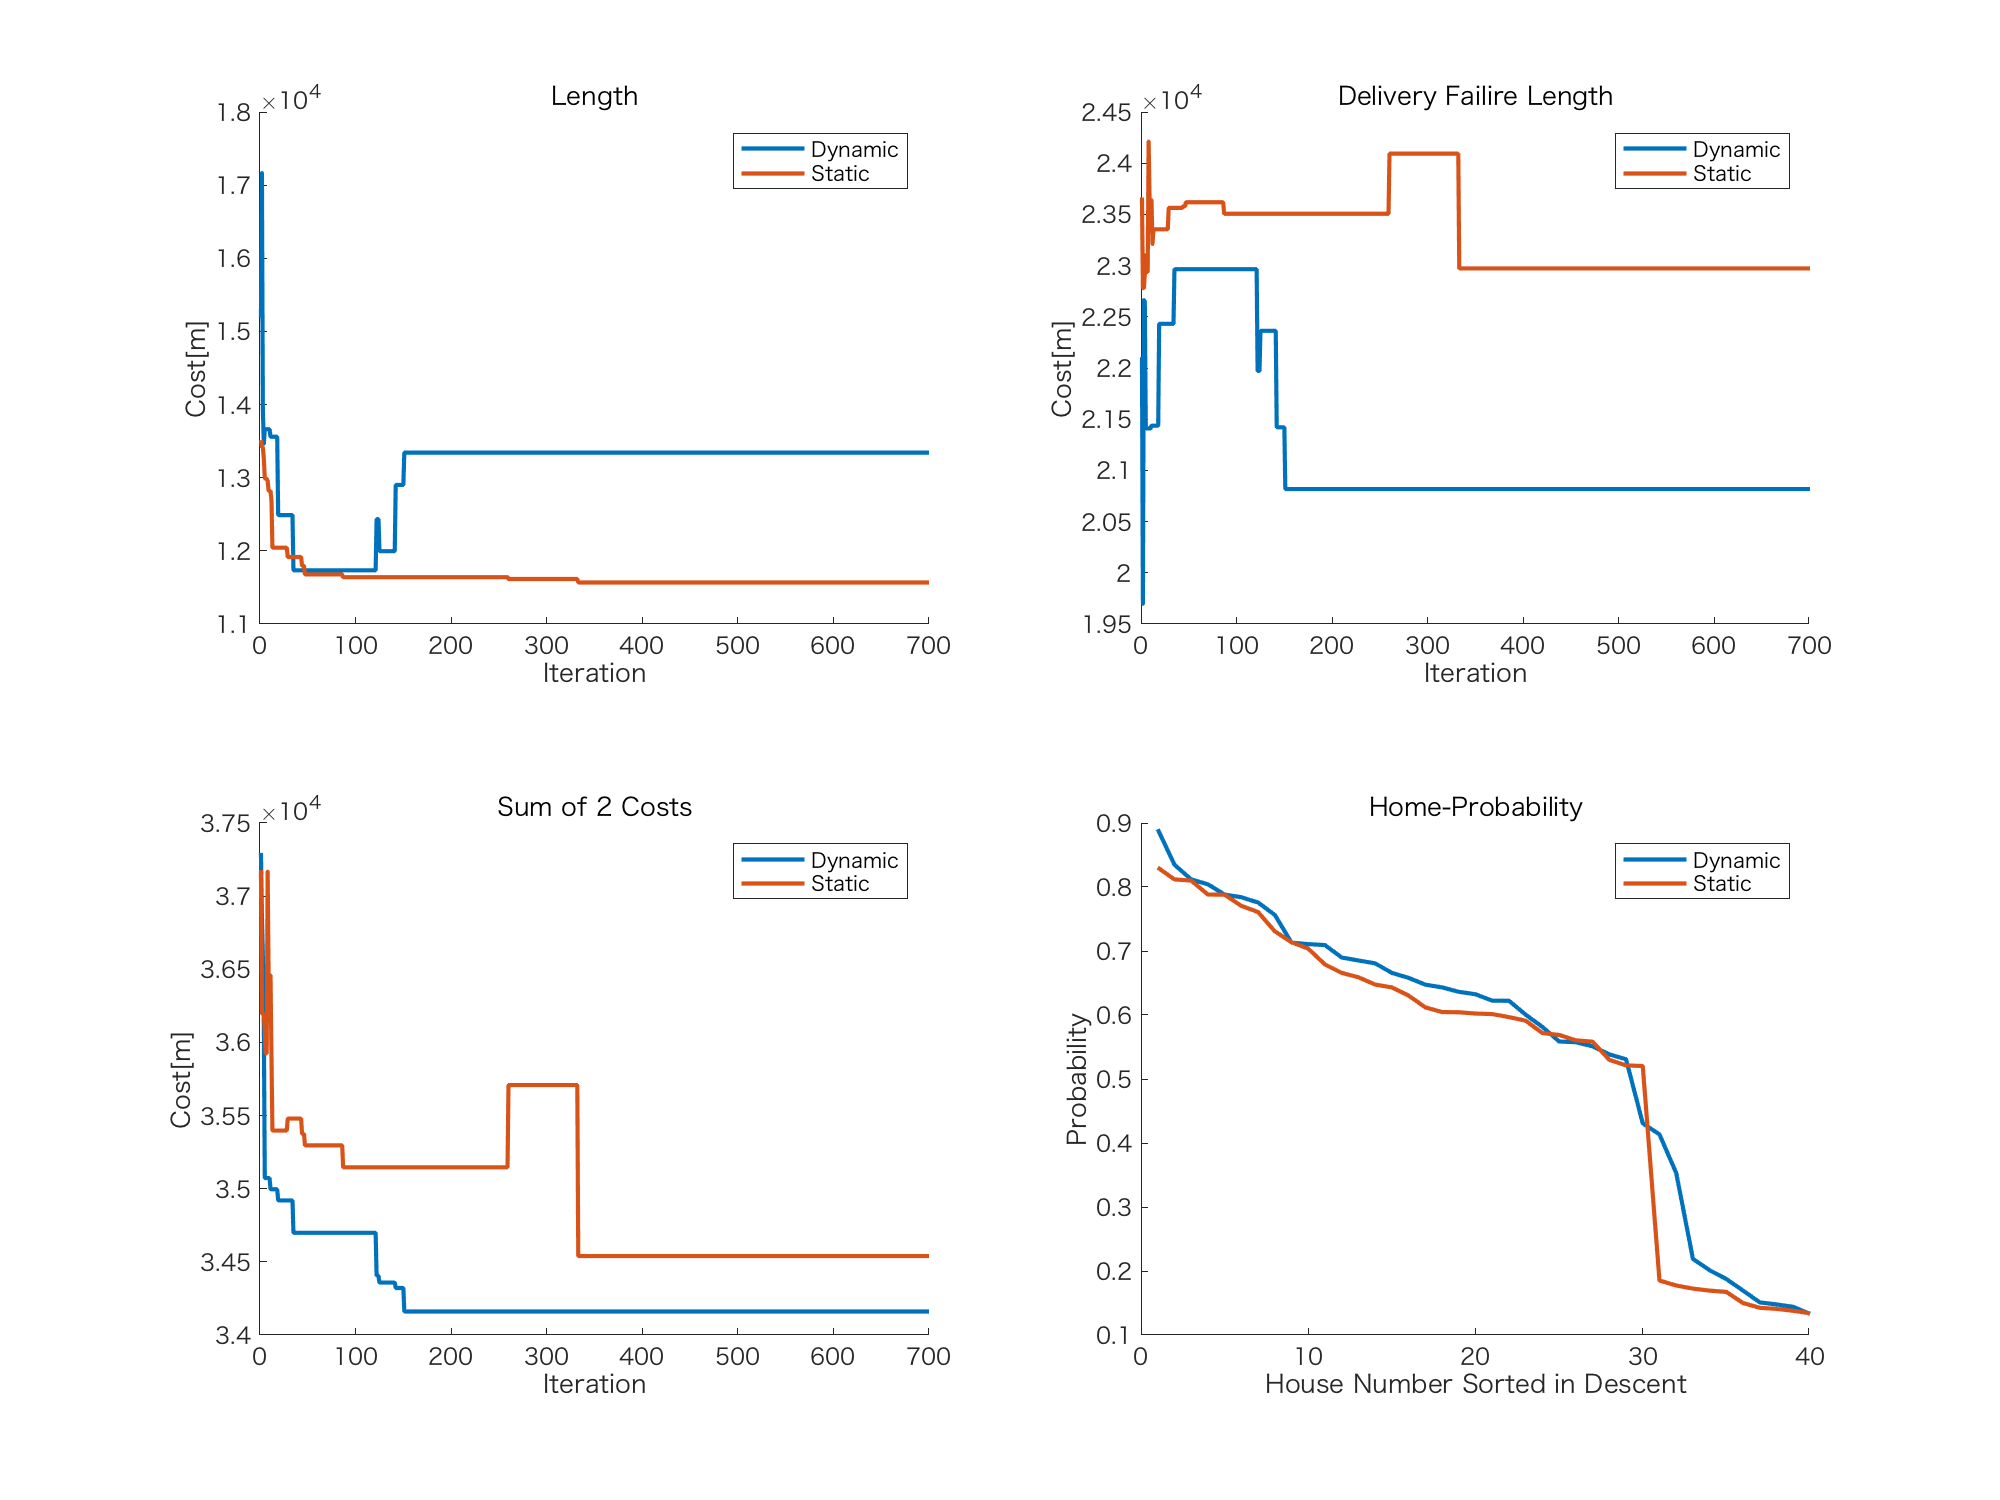
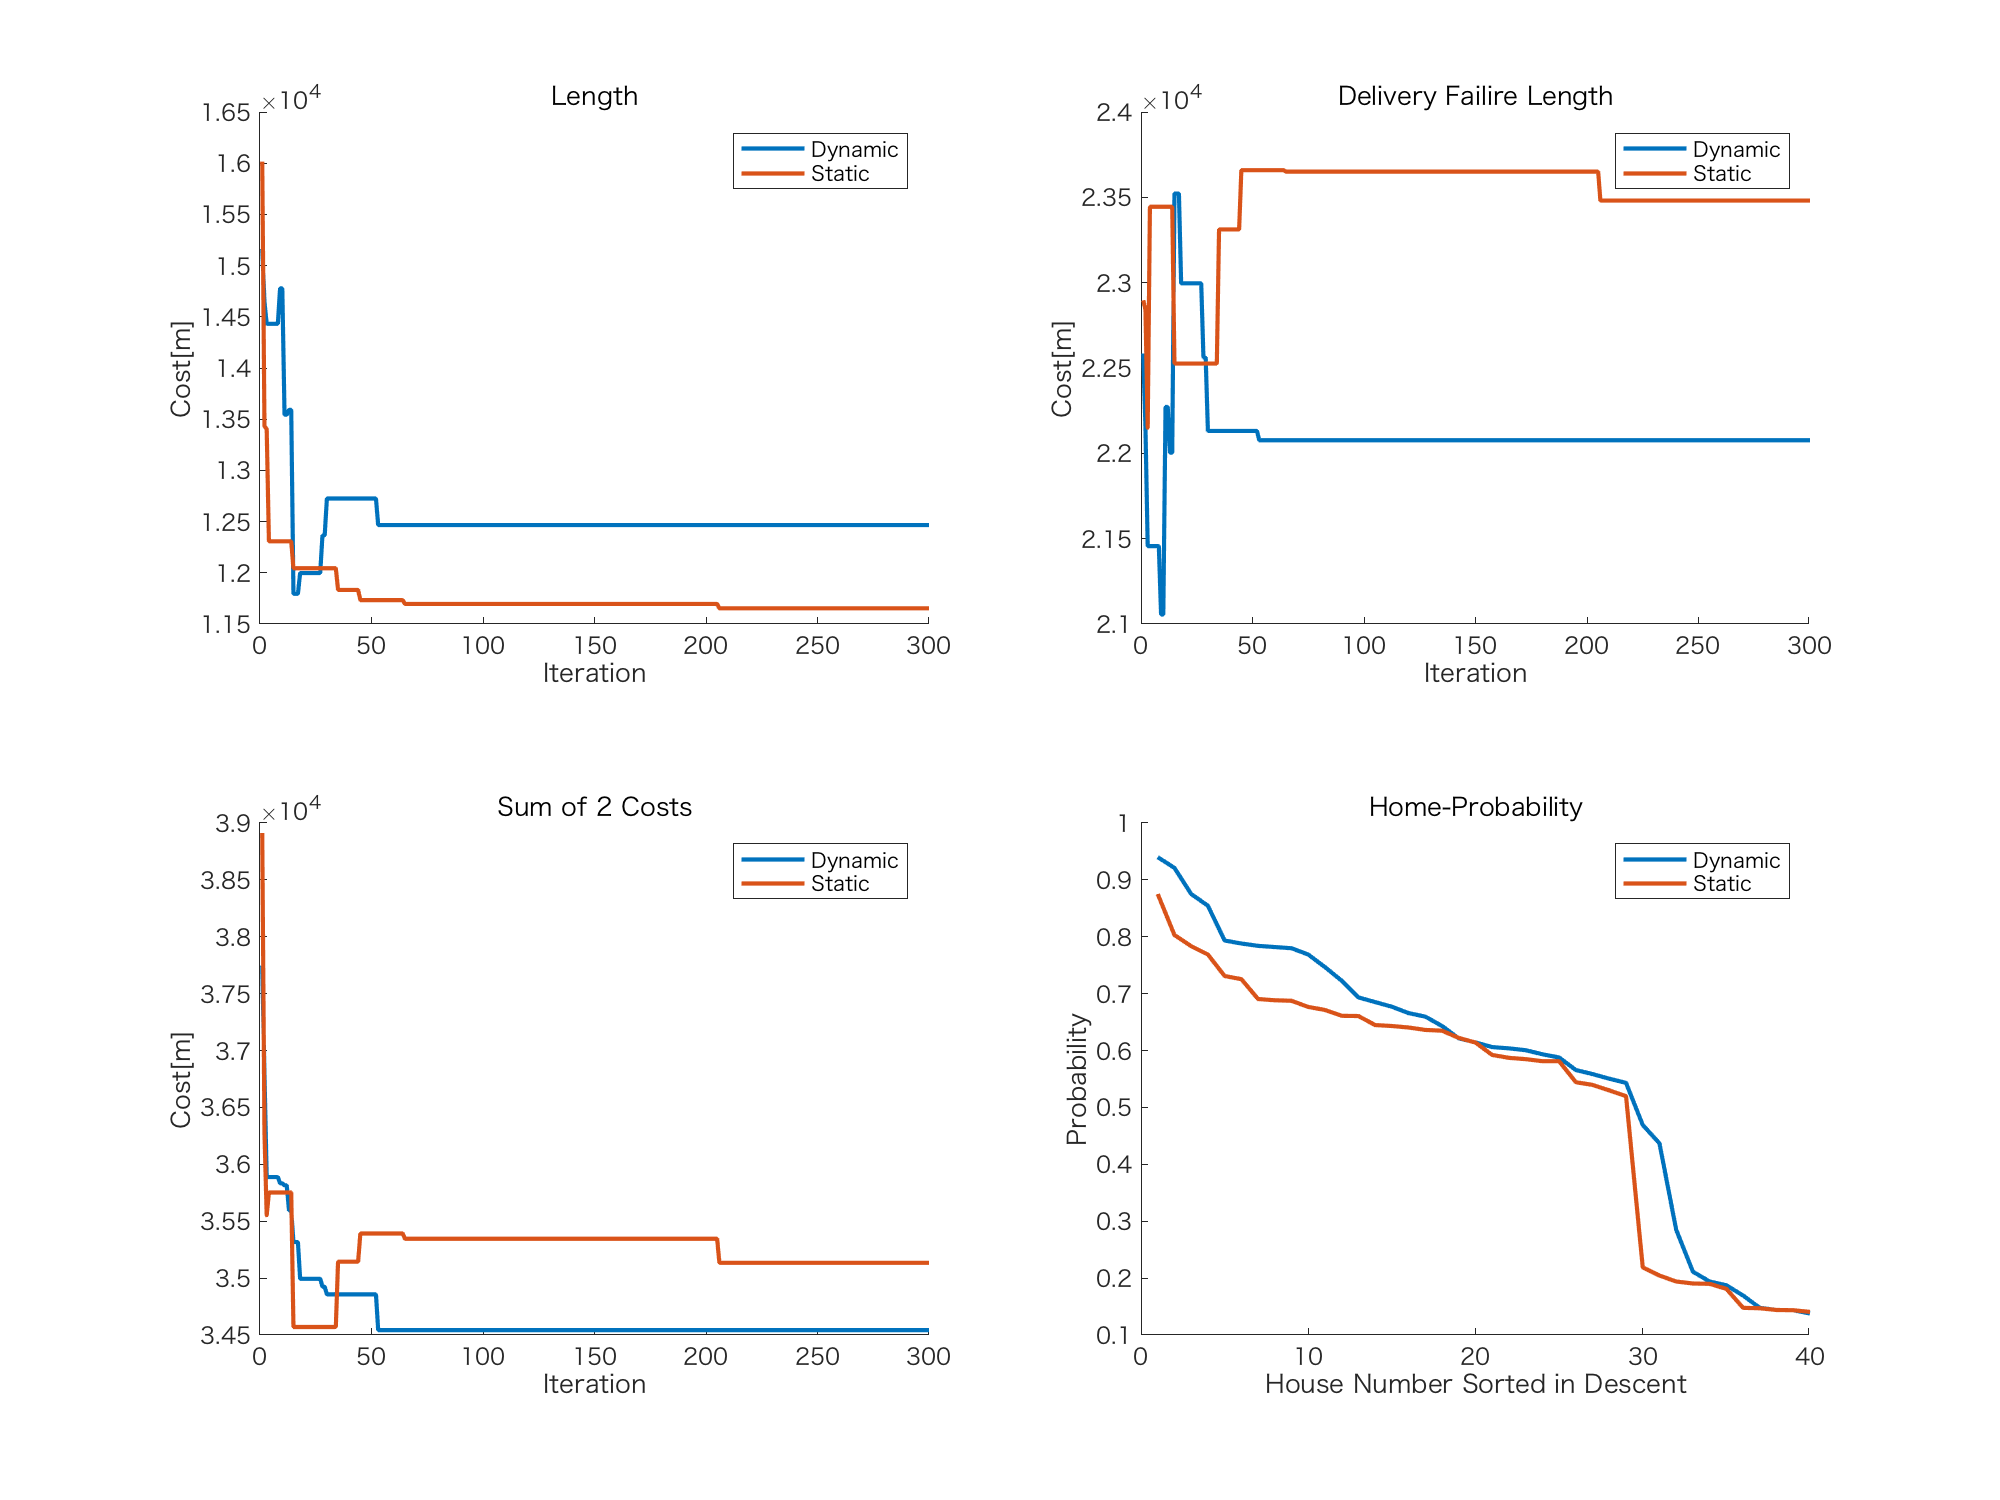
no message

diff --git a/main.m b/main.m
@@ -11,9 +11,9 @@ model=CreateModel(fix,N);
 
 %% ACO Parameters
 
-par.MaxIt=700;      % Maximum Number of Iterations
+par.MaxIt=300;      % Maximum Number of Iterations
 
-par.nAnt=60;        % Number of Ants (Population Size)
+par.nAnt=50;        % Number of Ants (Population Size)
 
 par.aL = mean(model.D(2:end,1))*1.2;      % average of length per 1 package [m] (this value also means probability weighting of cost function)
 
@@ -41,8 +41,12 @@ for i=1:2
     [BestSol HP_Log BestCost] = acoCalc(par, model);%#ok
     if Dyn(i)==0
         StaCost=BestCost;
+        StaHP_Log=HP_Log;
+        StaBestSol=BestSol;
     elseif Dyn(i)==1
         DynCost=BestCost;
+        DynHP_Log=HP_Log;
+        DynBestSol=BestSol;
     end
     %% Plot The Results
 %     PlotTimeVaring(BestSol,model,HP_Log,par.Dyn)
@@ -55,3 +59,18 @@ for i=1:2
     pause(1)
 end
 PlotCompare(DynCost,StaCost,HPTour,par.aL,model)
+
+%% Plot the GPS Skip Tour
+RealTour.Sta = SkipTour(StaBestSol,HPTour.Sta);
+RealTour.Dyn = SkipTour(DynBestSol,HPTour.Sta);
+PlotSkipSolution(StaBestSol,DynBestSol,RealTour,model)
+
+for i=1:500
+RealTour.Sta = SkipTour(StaBestSol,HPTour.Sta);
+Cost.Sta = CostFunction(StaHP_Log,RealTour.Sta,model,par.aL,1);
+RealTour.Dyn = SkipTour(DynBestSol,HPTour.Sta);
+Cost.Dyn = CostFunction(DynHP_Log,RealTour.Dyn,model,par.aL,1);
+h(1,i)=Cost.Dyn/Cost.Sta;
+end
+figure
+hist=histogram(h)

diff --git a/PlotCompare.m b/PlotCompare.m
@@ -1,6 +1,6 @@
 function PlotCompare(DynCost,StaCost,HPTour,aL,model)
 figure('Position',[240 0 480*2 360*2])
-a1=subplot(2,2,1)
+a1=subplot(2,2,1);
 hold on;
 plot(DynCost.L,'LineWidth',2);
 plot(StaCost.L,'LineWidth',2);
@@ -9,7 +9,7 @@ xlabel(a1,'Iteration')
 ylabel(a1,'Cost[m]')
 legend('Dynamic','Static')
 
-a2=subplot(2,2,2)
+a2=subplot(2,2,2);
 hold on;
 plot(aL*(model.n-DynCost.D),'LineWidth',2);
 plot(aL*(model.n-StaCost.D),'LineWidth',2);
@@ -18,7 +18,7 @@ xlabel(a2,'Iteration')
 ylabel(a2,'Cost[m]')
 legend('Dynamic','Static')
 
-a3=subplot(2,2,3)
+a3=subplot(2,2,3);
 hold on;
 plot(DynCost.C,'LineWidth',2);
 plot(StaCost.L+(aL*(model.n-StaCost.D)),'LineWidth',2);
@@ -27,7 +27,7 @@ xlabel(a3,'Iteration')
 ylabel(a3,'Cost[m]')
 legend('Dynamic','Static')
 
-a4=subplot(2,2,4)
+a4=subplot(2,2,4);
 hold on;
 plot(sort(HPTour.Dyn,'descend'),'LineWidth',2);
 plot(sort(HPTour.Sta,'descend'),'LineWidth',2);

diff --git a/PlotSkipSolution.m b/PlotSkipSolution.m
@@ -1,0 +1,29 @@
+function PlotSkipSolution(StaBestSol,DynBestSol,RealTour,model)
+figure('Position',[240 0 480*2 360*2])
+a1=subplot(2,2,1);
+subplot(2,2,1)
+PlotSolution(StaBestSol.Tour,model);
+title('All Tour Static')
+xlabel(a1,'y')
+ylabel(a1,'x')
+
+a2=subplot(2,2,2);
+PlotSolution(DynBestSol.Tour,model);
+title('All Tour Dynamic')
+xlabel(a2,'y')
+ylabel(a2,'x')
+
+a3=subplot(2,2,3);
+PlotSolution(RealTour.Sta,model);
+title(['Skip Tour Static -- Visited Number', num2str(numel(RealTour.Sta))])
+xlabel(a3,'y')
+ylabel(a3,'x')
+
+a4=subplot(2,2,4);
+PlotSolution(RealTour.Dyn,model);
+title(['Skip Tour Dynamic -- Visited Number: ', num2str(numel(RealTour.Dyn))])
+xlabel(a4,'y')
+ylabel(a4,'x')
+
+saveas(gcf,[pwd '/output/CompareSkipSolution.png'])
+end

diff --git a/RouletteChoice.m b/RouletteChoice.m
@@ -1,0 +1,10 @@
+function HPReal=RouletteChoice(HPTour)
+
+a=[1 0];
+
+for i=1:numel(HPTour)
+    w(i,:)=[HPTour(i) 1-HPTour(i)];
+    HPReal(1,i) = a( sum( (rand(1) >= cumsum(w(i,:)./sum(w(i,:))))) + 1 );
+end
+
+end

diff --git a/SkipTour.m b/SkipTour.m
@@ -1,0 +1,7 @@
+function SkipTour=SkipTour(BestSol,HPTour)
+
+HPReal=RouletteChoice(HPTour);
+tmp=HPReal.*BestSol.Tour;
+SkipTour=nonzeros(tmp)';
+
+end

diff --git a/PlotSolution.m b/PlotSolution.m
@@ -1,4 +1,3 @@
-
 function PlotSolution(tour,model)
 
     tour=[tour tour(1)];
